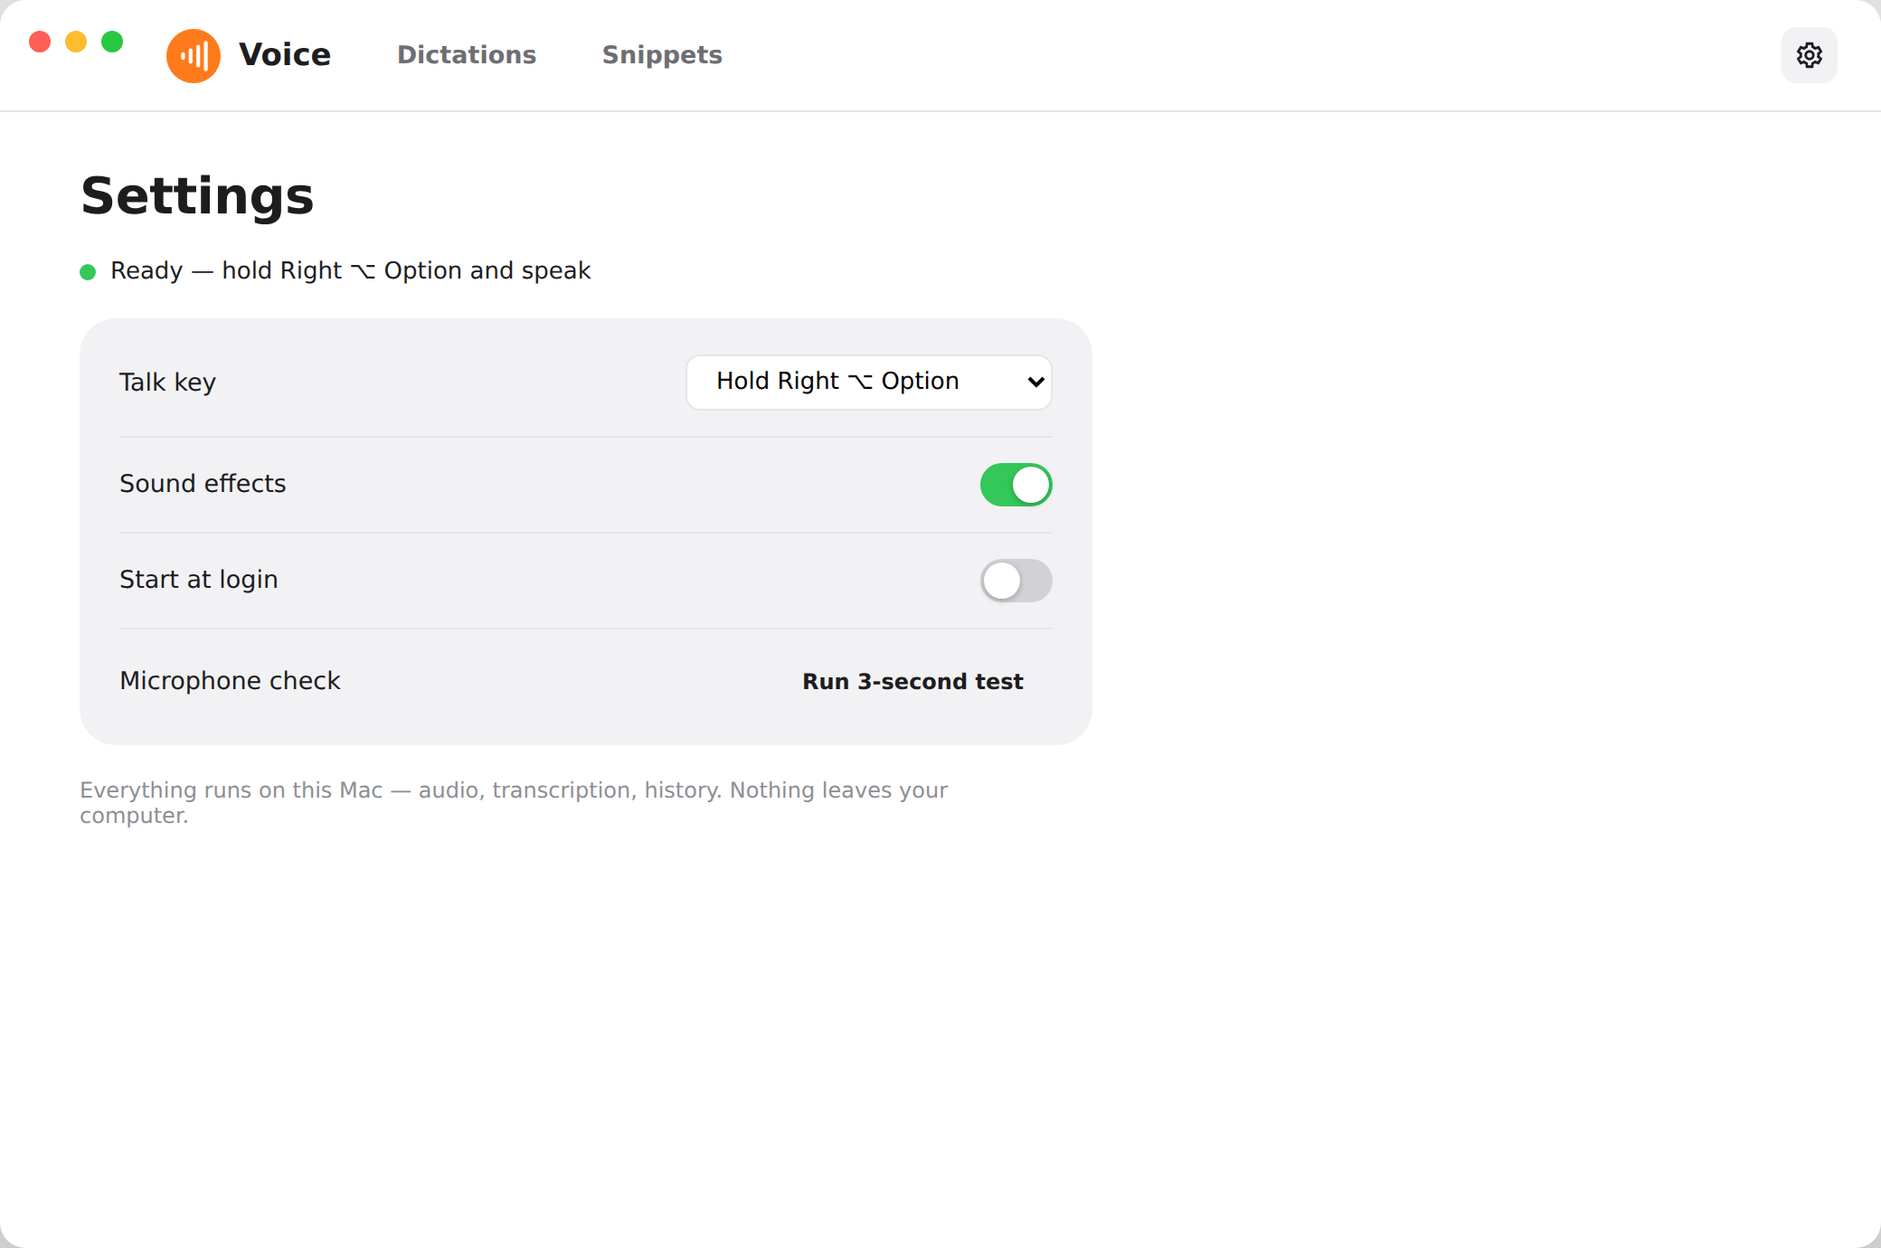
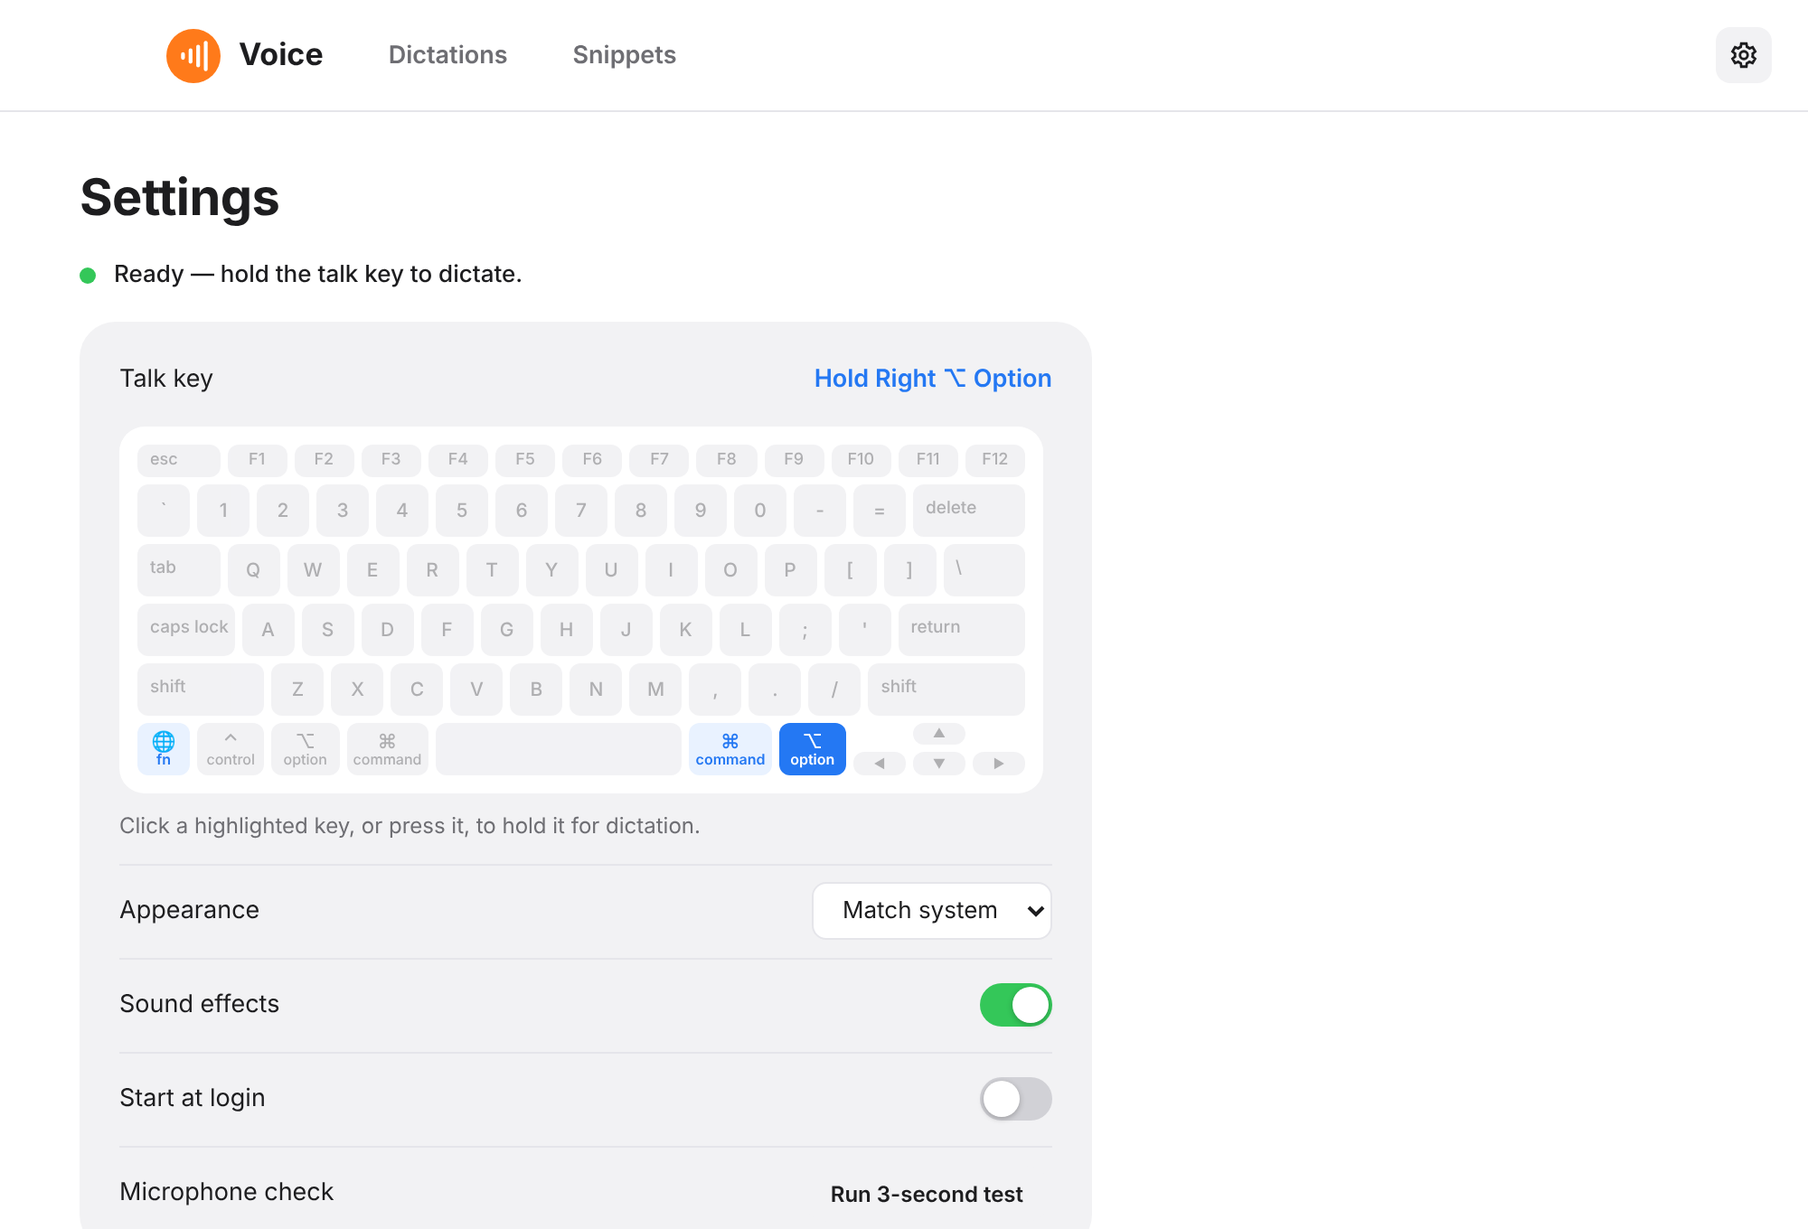
Pick the talk key on a full on-screen keyboard
Settings and onboarding step 3 now draw the whole keyboard (Mac layout on
macOS, PC layout with Win/Super elsewhere). The keys Hotkey::available
offers are tinted and clickable radio buttons, the chosen one is solid
accent, and pressing a talk key while the picker is showing selects it.
A commands.rs test pins a key in keyboard.js for every Hotkey variant.

Claude-Session: https://claude.ai/code/session_01Wy2S5qP3MFK5MqNbN8D7Lv

diff --git a/crates/voice-app/ui/keyboard.js b/crates/voice-app/ui/keyboard.js
@@ -1,0 +1,172 @@
+// Talk-key picker drawn as a whole keyboard (Settings and onboarding step 3).
+// Every key is shown so the choice reads in place; only the keys in
+// `get_settings().hotkeys` (Hotkey::available on the Rust side) are
+// selectable, the rest are dimmed. Clicking a talk key, or pressing it while
+// the picker is on screen, calls `onSelect(id)`. The fn/🌐 key never reaches
+// a webview, so it can only be clicked.
+(() => {
+  // [label, width in key units, options]. Each row adds up to 15 units so the
+  // rows line up; `id` is a `Hotkey::raw_value`, `code` a KeyboardEvent.code.
+  const F_ROW = (esc) => [[esc, 1.5, { code: 'Escape' }],
+    ...Array.from({ length: 12 }, (_, i) => ['F' + (i + 1), 1.125, { code: 'F' + (i + 1) }])];
+  const letters = (s) => [...s].map((c) => [c, 1, { code: /[A-Z]/.test(c) ? 'Key' + c : null }]);
+  const digits = [...'1234567890'].map((c) => [c, 1, { code: 'Digit' + c }]);
+  const MIDDLE = (bksp, tab, caps, enter, shift) => [
+    [['`', 1, { code: 'Backquote' }], ...digits, ['-', 1, { code: 'Minus' }],
+      ['=', 1, { code: 'Equal' }], [bksp, 2, { code: 'Backspace' }]],
+    [[tab, 1.5, { code: 'Tab' }], ...letters('QWERTYUIOP'), ['[', 1, { code: 'BracketLeft' }],
+      [']', 1, { code: 'BracketRight' }], ['\\', 1.5, { code: 'Backslash' }]],
+    [[caps, 1.75, { code: 'CapsLock' }], ...letters('ASDFGHJKL'), [';', 1, { code: 'Semicolon' }],
+      ["'", 1, { code: 'Quote' }], [enter, 2.25, { code: 'Enter' }]],
+    [[shift, 2.25, { code: 'ShiftLeft' }], ...letters('ZXCVBNM'), [',', 1, { code: 'Comma' }],
+      ['.', 1, { code: 'Period' }], ['/', 1, { code: 'Slash' }], [shift, 2.75, { code: 'ShiftRight' }]],
+  ];
+  const ARROWS = ['arrows', 3, { arrows: true }];
+
+  const LAYOUTS = {
+    macos: [
+      F_ROW('esc'),
+      ...MIDDLE('delete', 'tab', 'caps lock', 'return', 'shift'),
+      [['fn', 1, { id: 'fn', glyph: '🌐' }], ['control', 1.25, { glyph: '⌃', code: 'ControlLeft' }],
+        ['option', 1.25, { glyph: '⌥', code: 'AltLeft' }], ['command', 1.5, { glyph: '⌘', code: 'MetaLeft' }],
+        ['', 4.25, { code: 'Space' }],
+        ['command', 1.5, { glyph: '⌘', code: 'MetaRight', id: 'rightCommand' }],
+        ['option', 1.25, { glyph: '⌥', code: 'AltRight', id: 'rightOption' }], ARROWS],
+    ],
+    pc: (win) => [
+      F_ROW('Esc'),
+      ...MIDDLE('Backspace', 'Tab', 'Caps', 'Enter', 'Shift'),
+      [['Ctrl', 1.25, { code: 'ControlLeft' }], [win, 1, { code: 'MetaLeft' }],
+        ['Alt', 1.25, { code: 'AltLeft' }], ['', 5, { code: 'Space' }],
+        ['Alt', 1.25, { code: 'AltRight', id: 'rightOption' }],
+        [win, 1, { code: 'MetaRight', id: 'rightCommand' }],
+        ['Ctrl', 1.25, { code: 'ControlRight', id: 'rightControl' }], ARROWS],
+    ],
+  };
+  // Older WebKitGTK still reports the Super keys as OSLeft/OSRight.
+  const CODE_ALIASES = { OSLeft: 'MetaLeft', OSRight: 'MetaRight' };
+
+  function rowsFor(platform) {
+    if (platform === 'macos') return LAYOUTS.macos;
+    return LAYOUTS.pc(platform === 'windows' ? 'Win' : 'Super');
+  }
+
+  function keyEl(label, width, opts) {
+    const k = document.createElement('div');
+    k.className = 'kb-key';
+    k.style.setProperty('--w', width);
+    if (opts.glyph) {
+      const g = document.createElement('b');
+      g.textContent = opts.glyph;
+      k.appendChild(g);
+      const s = document.createElement('small');
+      s.textContent = label;
+      k.appendChild(s);
+    } else {
+      k.textContent = label;
+    }
+    if (width > 1.2 && !opts.glyph) k.classList.add('wide');
+    else if (!opts.glyph && label.length > 2) k.classList.add('word');
+    return k;
+  }
+
+  // `opts`: { platform, hotkeys: [{id,label,short_label}], selected, onSelect }.
+  // Returns { update(selected) } so a re-render keeps focus on the keys.
+  function render(root, opts) {
+    const available = new Map(opts.hotkeys.map((hk) => [hk.id, hk]));
+    const byId = new Map();
+    const byCode = new Map();
+    root.textContent = '';
+    root.classList.add('kb');
+    root.setAttribute('role', 'radiogroup');
+    root.setAttribute('aria-label', 'Talk key');
+
+    rowsFor(opts.platform).forEach((row, i) => {
+      const r = document.createElement('div');
+      r.className = 'kb-row' + (i === 0 ? ' fn-row' : '');
+      for (const [label, width, o] of row) {
+        if (o.arrows) {
+          const a = document.createElement('div');
+          a.className = 'kb-arrows';
+          a.style.setProperty('--w', width);
+          a.setAttribute('aria-hidden', 'true');
+          const up = keyEl('▲', 1, {});
+          const down = keyEl('▼', 1, {});
+          const stack = document.createElement('div');
+          stack.className = 'kb-updown';
+          stack.append(up, down);
+          a.append(keyEl('◀', 1, {}), stack, keyEl('▶', 1, {}));
+          for (const [el, code] of [[a.children[0], 'ArrowLeft'], [up, 'ArrowUp'],
+            [down, 'ArrowDown'], [a.children[2], 'ArrowRight']]) byCode.set(code, el);
+          r.appendChild(a);
+          continue;
+        }
+        const hk = o.id && available.get(o.id);
+        let k;
+        if (hk) {
+          // A real control: the selectable talk keys are buttons in a radio group.
+          k = document.createElement('button');
+          k.type = 'button';
+          const inner = keyEl(label, width, o);
+          k.className = inner.className + ' talk';
+          k.style.setProperty('--w', width);
+          k.append(...inner.childNodes);
+          k.setAttribute('role', 'radio');
+          k.setAttribute('aria-label', hk.label);
+          k.title = 'Hold ' + hk.label + ' to talk';
+          k.dataset.id = hk.id;
+          k.addEventListener('click', () => opts.onSelect(hk.id));
+          byId.set(hk.id, k);
+        } else {
+          k = keyEl(label, width, o);
+          k.classList.add('off');
+          k.setAttribute('aria-hidden', 'true');
+        }
+        if (o.code) byCode.set(o.code, k);
+        r.appendChild(k);
+      }
+      root.appendChild(r);
+    });
+
+    function update(selected) {
+      for (const [id, k] of byId) {
+        const on = id === selected;
+        k.classList.toggle('sel', on);
+        k.setAttribute('aria-checked', on ? 'true' : 'false');
+      }
+    }
+    update(opts.selected);
+
+    // Pressing a key while the picker is showing lights it up, and pressing
+    // one of the talk keys picks it. Text fields elsewhere keep their keys.
+    function onKey(e) {
+      if (!root.isConnected || root.offsetParent === null) return;
+      const t = e.target;
+      if (t && (t.tagName === 'INPUT' || t.tagName === 'TEXTAREA' || t.isContentEditable)) return;
+      const code = CODE_ALIASES[e.code] || e.code;
+      const k = byCode.get(code);
+      if (!k) return;
+      if (e.type === 'keyup') { k.classList.remove('down'); return; }
+      if (e.repeat) return;
+      k.classList.add('down');
+      if (k.dataset.id && available.has(k.dataset.id)) opts.onSelect(k.dataset.id);
+    }
+    // A key released while the window is in the background never sends keyup.
+    function onBlur() {
+      root.querySelectorAll('.kb-key.down').forEach((k) => k.classList.remove('down'));
+    }
+    if (root._kbListeners) root._kbListeners();
+    document.addEventListener('keydown', onKey);
+    document.addEventListener('keyup', onKey);
+    window.addEventListener('blur', onBlur);
+    root._kbListeners = () => {
+      document.removeEventListener('keydown', onKey);
+      document.removeEventListener('keyup', onKey);
+      window.removeEventListener('blur', onBlur);
+    };
+
+    return { update };
+  }
+
+  window.VoiceKeyboard = { render };
+})();

diff --git a/crates/voice-app/ui/app.css b/crates/voice-app/ui/app.css
@@ -200,6 +200,39 @@ body.macos .topbar { padding-left: 92px; }
             border-radius: 50%; background: #fff; transition: left .15s;
             box-shadow: 0 1px 3px rgba(0,0,0,.25); }
 .switch.on { background: var(--green); } .switch.on i { left: 18px; }
+/* Talk-key picker (ui/keyboard.js): the whole keyboard on a gray plate. Every
+   row is 15 units wide, and a w-unit key spans the gaps it covers, so the
+   rows line up. Selectable talk keys are tinted, the chosen one is solid
+   accent, the rest are dimmed. */
+.set-row.set-key { display: block; height: auto; padding-bottom: 14px; }
+.set-row.set-key > .set-row { border: none; }
+.kb-current { font-weight: 600; color: var(--accent); }
+.kb { --u: 29px; --g: 4px; display: inline-flex; flex-direction: column; gap: var(--g);
+      padding: 10px; border-radius: 14px; background: var(--bg); user-select: none; }
+.kb-row { display: flex; gap: var(--g); }
+.kb-key { flex: none; width: calc(var(--w) * var(--u) + (var(--w) - 1) * var(--g)); height: var(--u);
+  border-radius: 6px; background: var(--panel-deep); color: var(--soft); border: none; padding: 0 4px;
+  display: flex; flex-direction: column; align-items: center; justify-content: center;
+  font: 500 10.5px var(--sans); line-height: 1.1; white-space: nowrap; overflow: hidden;
+  transition: background .1s, color .1s, transform .08s; }
+.kb-key.wide { align-items: flex-start; padding: 0 7px; font-size: 9.5px; }
+.kb-key.word { font-size: 9.5px; }
+.kb-key b { font-size: 11px; font-weight: 500; line-height: 1.15; }
+.kb-key small { font-size: 8px; }
+.fn-row .kb-key { height: calc(var(--u) * .62); font-size: 9px; }
+.kb-key.off { opacity: .55; }
+.kb-key.talk { background: var(--accent-tint); color: var(--accent); font-weight: 600; cursor: pointer; }
+.kb-key.talk:hover, .kb-key.talk:focus-visible { box-shadow: inset 0 0 0 1.5px var(--accent); outline: none; }
+.kb-key.talk.sel { background: var(--accent); color: #fff; }
+.kb-key.down { transform: translateY(1px); opacity: 1; background: var(--line); color: var(--ink); }
+.kb-key.talk.down { background: var(--accent); color: #fff; }
+.kb-arrows { flex: none; display: flex; align-items: flex-end; gap: var(--g);
+  width: calc(var(--w) * var(--u) + (var(--w) - 1) * var(--g)); }
+.kb-arrows > .kb-key { height: calc((var(--u) - var(--g)) / 2); }
+.kb-updown { display: flex; flex-direction: column; gap: var(--g); }
+.kb-updown .kb-key { height: calc((var(--u) - var(--g)) / 2); }
+.kb-arrows .kb-key { font-size: 7px; opacity: .55; }
+.kb-hint { font-size: 12px; color: var(--soft); margin-top: 10px; }
 .footnote { font-size: 12px; color: var(--faint); max-width: 520px; line-height: 1.5; }
 
 /* ══ ONBOARDING ══ */
@@ -230,11 +263,9 @@ body.onboarding { align-items: center; justify-content: center; }
 .perm .tx b { display: block; font-size: 14px; margin-bottom: 2px; }
 .perm .tx small { color: var(--soft); font-size: 12.5px; line-height: 1.4; display: block; }
 .perm .cap-btn { margin-left: auto; flex: none; padding: 8px 16px; font-size: 12px; }
-.hk-row { display: flex; gap: 12px; margin-bottom: 28px; }
-.hk { font: 600 14px var(--sans); width: 132px; height: 62px; border-radius: 14px;
-      background: var(--panel); border: 1.5px solid transparent; color: var(--ink); }
-.hk small { display: block; font-weight: 500; color: var(--soft); margin-top: 4px; font-size: 10.5px; }
-.hk.sel { border-color: var(--accent); background: var(--accent-tint); color: var(--accent); }
+.ob-step[data-step="3"] { max-width: 640px; }
+.ob-step .kb { --u: 34px; background: var(--panel); }
+.ob-step .kb-hint { margin: 12px 0 24px; }
 .try-field { width: 480px; max-width: 100%; height: 110px; background: var(--panel); border-radius: 20px;
   padding: 12px 14px; font-size: 15px; text-align: left; margin-bottom: 26px; border: none;
   resize: none; outline: none; color: var(--ink); caret-color: var(--accent); }

diff --git a/crates/voice-app/ui/app.js b/crates/voice-app/ui/app.js
@@ -220,17 +220,7 @@
     $('status-text').textContent = status.text;
     $('fix-accessibility').classList.toggle('visible', status.needs_accessibility);
 
-    const sel = $('hotkey-select');
-    if (sel.options.length !== settings.hotkeys.length) {
-      sel.textContent = '';
-      for (const hk of settings.hotkeys) {
-        const o = document.createElement('option');
-        o.value = hk.id;
-        o.textContent = 'Hold ' + hk.label;
-        sel.appendChild(o);
-      }
-    }
-    sel.value = settings.hotkey;
+    renderTalkKey(settings);
     const look = $('appearance-select');
     if (look.options.length !== settings.appearances.length) {
       look.textContent = '';
@@ -245,11 +235,34 @@
     setSwitch($('sounds-switch'), settings.sounds);
     setSwitch($('login-switch'), settings.start_at_login);
   }
+  // Built once (the 1 s refresh only moves the selection) so keyboard focus
+  // on a key survives the poll.
+  let keyboard = null;
+  let talkKeys = [];
+  function renderTalkKey(settings) {
+    talkKeys = settings.hotkeys;
+    if (!keyboard) {
+      keyboard = window.VoiceKeyboard.render($('hotkey-keyboard'), {
+        platform: settings.platform,
+        hotkeys: settings.hotkeys,
+        selected: settings.hotkey,
+        onSelect: async (id) => {
+          showTalkKey(id);
+          await invoke('set_hotkey', { id });
+        },
+      });
+    }
+    showTalkKey(settings.hotkey);
+  }
+  function showTalkKey(id) {
+    keyboard.update(id);
+    const hk = talkKeys.find((h) => h.id === id);
+    $('hotkey-current').textContent = hk ? 'Hold ' + hk.label : '';
+  }
   function setSwitch(el, on) {
     el.classList.toggle('on', on);
     el.setAttribute('aria-checked', on ? 'true' : 'false');
   }
-  $('hotkey-select').addEventListener('change', (e) => invoke('set_hotkey', { id: e.target.value }));
   // theme.js restyles every window on the backend's `appearance-changed`.
   $('appearance-select').addEventListener('change', (e) => invoke('set_appearance', { id: e.target.value }));
   $('sounds-switch').addEventListener('click', (e) => {

diff --git a/crates/voice-app/ui/onboarding.js b/crates/voice-app/ui/onboarding.js
@@ -64,26 +64,25 @@
   }
 
   // ── step 3: talk key ──────────────────────────────────────────────────
+  let keyboard = null;
   function renderHotkeys() {
-    const row = $('hk-row');
-    row.textContent = '';
-    settings.hotkeys.forEach((hk, i) => {
-      const selected = hk.id === settings.hotkey;
-      const b = document.createElement('button');
-      b.className = 'hk' + (selected ? ' sel' : '');
-      b.setAttribute('role', 'radio');
-      b.setAttribute('aria-checked', selected ? 'true' : 'false');
-      b.textContent = hk.short_label;
-      const small = document.createElement('small');
-      small.textContent = i === 0 ? 'recommended' : 'alternative';
-      b.appendChild(small);
-      b.addEventListener('click', async () => {
-        await invoke('set_hotkey', { id: hk.id });
-        settings.hotkey = hk.id;
-        renderHotkeys();
+    if (!keyboard) {
+      keyboard = window.VoiceKeyboard.render($('hk-keyboard'), {
+        platform: settings.platform,
+        hotkeys: settings.hotkeys,
+        selected: settings.hotkey,
+        onSelect: async (id) => {
+          settings.hotkey = id;
+          renderHotkeys();
+          await invoke('set_hotkey', { id });
+        },
       });
-      row.appendChild(b);
-    });
+    }
+    keyboard.update(settings.hotkey);
+    const hk = settings.hotkeys.find((h) => h.id === settings.hotkey) || settings.hotkeys[0];
+    // hotkeys[0] is the platform default (Hotkey::available order).
+    const note = hk.id === settings.hotkeys[0].id ? ' (recommended)' : '';
+    $('hk-current').textContent = `Talk key: ${hk.label}${note}. Click or press a highlighted key to change it.`;
   }
 
   // ── step 5: done ──────────────────────────────────────────────────────

diff --git a/crates/voice-app/ui/index.html b/crates/voice-app/ui/index.html
@@ -72,7 +72,11 @@
       <button class="cap-btn lav fix" id="fix-accessibility">Open Settings…</button>
     </div>
     <div class="set-card sticker">
-      <div class="set-row"><span>Talk key</span><select id="hotkey-select" aria-label="Talk key"></select></div>
+      <div class="set-row set-key">
+        <div class="set-row"><span>Talk key</span><span class="kb-current" id="hotkey-current"></span></div>
+        <div id="hotkey-keyboard"></div>
+        <p class="kb-hint">Click a highlighted key, or press it, to hold it for dictation.</p>
+      </div>
       <div class="set-row"><span>Appearance</span><select id="appearance-select" aria-label="Appearance"></select></div>
       <div class="set-row"><span>Sound effects</span><button class="switch" id="sounds-switch" role="switch" aria-checked="true" aria-label="Sound effects"><i></i></button></div>
       <div class="set-row"><span>Start at login</span><button class="switch" id="login-switch" role="switch" aria-checked="false" aria-label="Start at login"><i></i></button></div>
@@ -86,6 +90,7 @@
      an accessibility announcement); visually hidden. -->
 <div class="sr-only" id="sr-live" aria-live="polite"></div>
 
+<script src="keyboard.js"></script>
 <script src="app.js"></script>
 </body>
 </html>

diff --git a/crates/voice-app/ui/onboarding.html b/crates/voice-app/ui/onboarding.html
@@ -43,7 +43,8 @@
 <div class="ob-step" data-step="3">
   <h1 class="sm">Pick your <em>talk key</em></h1>
   <p>Hold it down to speak. Let go and your words are typed. Tap Esc to cancel.</p>
-  <div class="hk-row" id="hk-row" role="radiogroup" aria-label="Talk key"></div>
+  <div id="hk-keyboard"></div>
+  <p class="kb-hint" id="hk-current"></p>
   <button class="cap-btn" data-go="4">Continue</button>
 </div>
 
@@ -66,6 +67,7 @@
 <button class="cap-btn ghost back" id="back">Back</button>
 <div class="progress" id="progress" style="width:20%"></div>
 
+<script src="keyboard.js"></script>
 <script src="onboarding.js"></script>
 </body>
 </html>

diff --git a/crates/voice-app/src/commands.rs b/crates/voice-app/src/commands.rs
@@ -446,6 +446,18 @@ mod tests {
         assert_eq!(effective_hotkey(&settings), Hotkey::RightCommand);
     }
 
+    /// ui/keyboard.js draws the talk-key picker and marks the selectable keys
+    /// by `Hotkey::raw_value`; a variant missing there would be offered by
+    /// `get_settings` but have no key to click.
+    #[test]
+    fn keyboard_picker_has_a_key_for_every_hotkey() {
+        let js = include_str!("../ui/keyboard.js");
+        for hk in Hotkey::ALL {
+            let needle = format!("id: '{}'", hk.raw_value());
+            assert!(js.contains(&needle), "keyboard.js lacks {needle}");
+        }
+    }
+
     #[test]
     fn status_colors_match_the_css_classes() {
         assert_eq!(color_name(StatusColor::Red), "red");

diff --git a/AGENTS.md b/AGENTS.md
@@ -44,9 +44,10 @@ crates/voice-app/                Tauri 2 desktop app
   src/overlay.rs                 floating pill window driver
   src/commands.rs                #[tauri::command] handlers + DTOs used by ui/
   src/platform/{mod,macos,windows,linux}.rs  permissions, settings panes, relaunch
-  ui/                            static HTML/CSS/JS (index, onboarding, overlay, theme.js), sounds/
+  ui/                            static HTML/CSS/JS (index, onboarding, overlay, theme.js,
+                                 keyboard.js talk-key picker), sounds/
 assets/app-prototype.html        HTML mirror of the design tokens — keep in sync with ui/
-assets/screenshots/              README images (dark-mode/: light/dark UI evidence)
+assets/screenshots/              README images (dark-mode/, talk-key/: UI evidence)
 build.sh                         macOS wrapper: cargo tauri build → ./Voice.app (+ voicectl) + codesign
 scripts/install.sh               curl | bash installer for macOS and Linux
 scripts/e2e-smoke.sh             tier-4 GUI smoke (macOS, manual)
